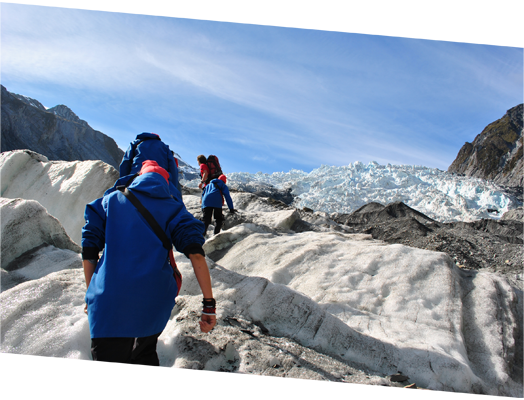
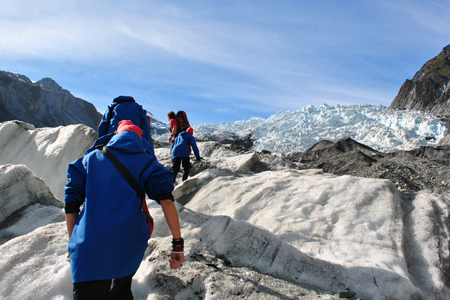
toevoegen camper sectie, verbeteren activiteiten, en foto aangepast

diff --git a/css/style.css b/css/style.css
@@ -69,6 +69,11 @@ p {
   text-align: center;
 }
 
+a {
+  color:#444;
+  text-decoration: none;
+}
+
 h1 {
     font-size:35px;
     font-weight:bold;
@@ -198,6 +203,43 @@ nav a:hover {
   width:30.3333333%;
 }
 
+/* camperVan */
+.camperVan {
+  padding-top:50px;
+  padding-bottom:50px;
+  background-color:#FFDE8D;
+}
+
+.camperInfo {
+  float:left;
+  width:60%;
+  padding-right:5%;
+}
+
+.camperImg {
+  float:left;
+  width:35%;
+}
+
+button {
+  border:none;
+  background-color: #167F39;
+  margin-top: 20px;
+  padding: 20px 10px;
+  transition: all 0.25s ease 0s;
+}
+
+a button {
+  text-decoration: none;
+  color: #fff;
+}
+
+button:hover {
+  background-color:#044C29;
+}
+
+/* activiteiten */
+
 .mustDo {
   padding-top:50px;
   padding-bottom:50px;
@@ -214,53 +256,28 @@ nav a:hover {
 
 .mustDoLeft {
   float:left;
-  width:40%;
+  width:55%;
   margin-right:5%;
 }
 
 .mustDoRight {
   float:left;
-  width:55%;
+  width:40%;
 }
 
 .mustDoLeftImg {
   float:left;
-  width:55%;
+  width:40%;
+  margin-right:5%;
 
 }
 .mustDoRightText {
   float:left;
-  width:40%;
+  width:55%;
 }
 
-.readMore-btn {
-  background-color: #167F39;
-  color: white;
-  margin-top: 20px;
-  padding: 20px 10px;
-  text-decoration: none;
-  transition: all 0.25s ease 0s;
-}
 
-.readMore-btn:hover {
-  background-color:#044C29;
-}
 
-.loadMoreActivities {
-  clear:both;
-  padding-top:50px;
-  padding-bottom:50px;
-  text-align:center;
-}
-
-.loadMore-btn {
-  background-color: #167F39;
-  color: white;
-  margin-top: 20px;
-  padding: 20px 10px;
-  text-decoration: none;
-  transition: all 0.25s ease 0s;
-}
 
 
 

diff --git a/index.html b/index.html
@@ -55,6 +55,22 @@
     	</div>
     </section>
 
+    <section class="camperVan">
+      <div id="container">
+        <div class="camperInfo">
+          <h2 class="thin">Camper - Jucy Condo</h2>
+
+          <p>The JUCY Condo has two double beds that can sleep up to 4 adults. With an interior custom built in 2010, this fresh and fun vehicle features a well equipped kitchen, a 19″ TV with DVD player, compressor fridge, gas cooker and much more. Plus the price includes all the living equipment that you will need (such as bedding, towels and kitchen equipment) and unlimited mileage. Trust us when we say this vehicle is truly awesome!</p><br /><br />
+
+          <a href="#"><button class="readMore-btn">Meer over deze camper</button></a>
+
+        </div>
+        <div class="camperImg">
+          <img src="img/jucy-condo.png" width="300">
+        </div>
+
+      </div>  
+    </section> 
 
     <section class="mustDo">
       <div id="container">
@@ -67,7 +83,7 @@
 
         </div>
         <div class="mustDoRight">
-          <img src="img/glacier.png" width="300">
+          <img src="img/glacier.png" width="450" height="300" alt="franz-josef-glacier">
         </div>
 
       </div>  
@@ -76,7 +92,7 @@
     <section class="mustDoWhite">
       <div id="container">
         <div class="mustDoLeftImg">
-          <img src="img/tongariro.png" width="300">
+          <img src="img/tongariro.png" width="450" height="300" alt="tongariro-crossing">
         </div>
         <div class="mustDoRightText">
           <h2 class="thin">Tongariro Crossing</h2>
